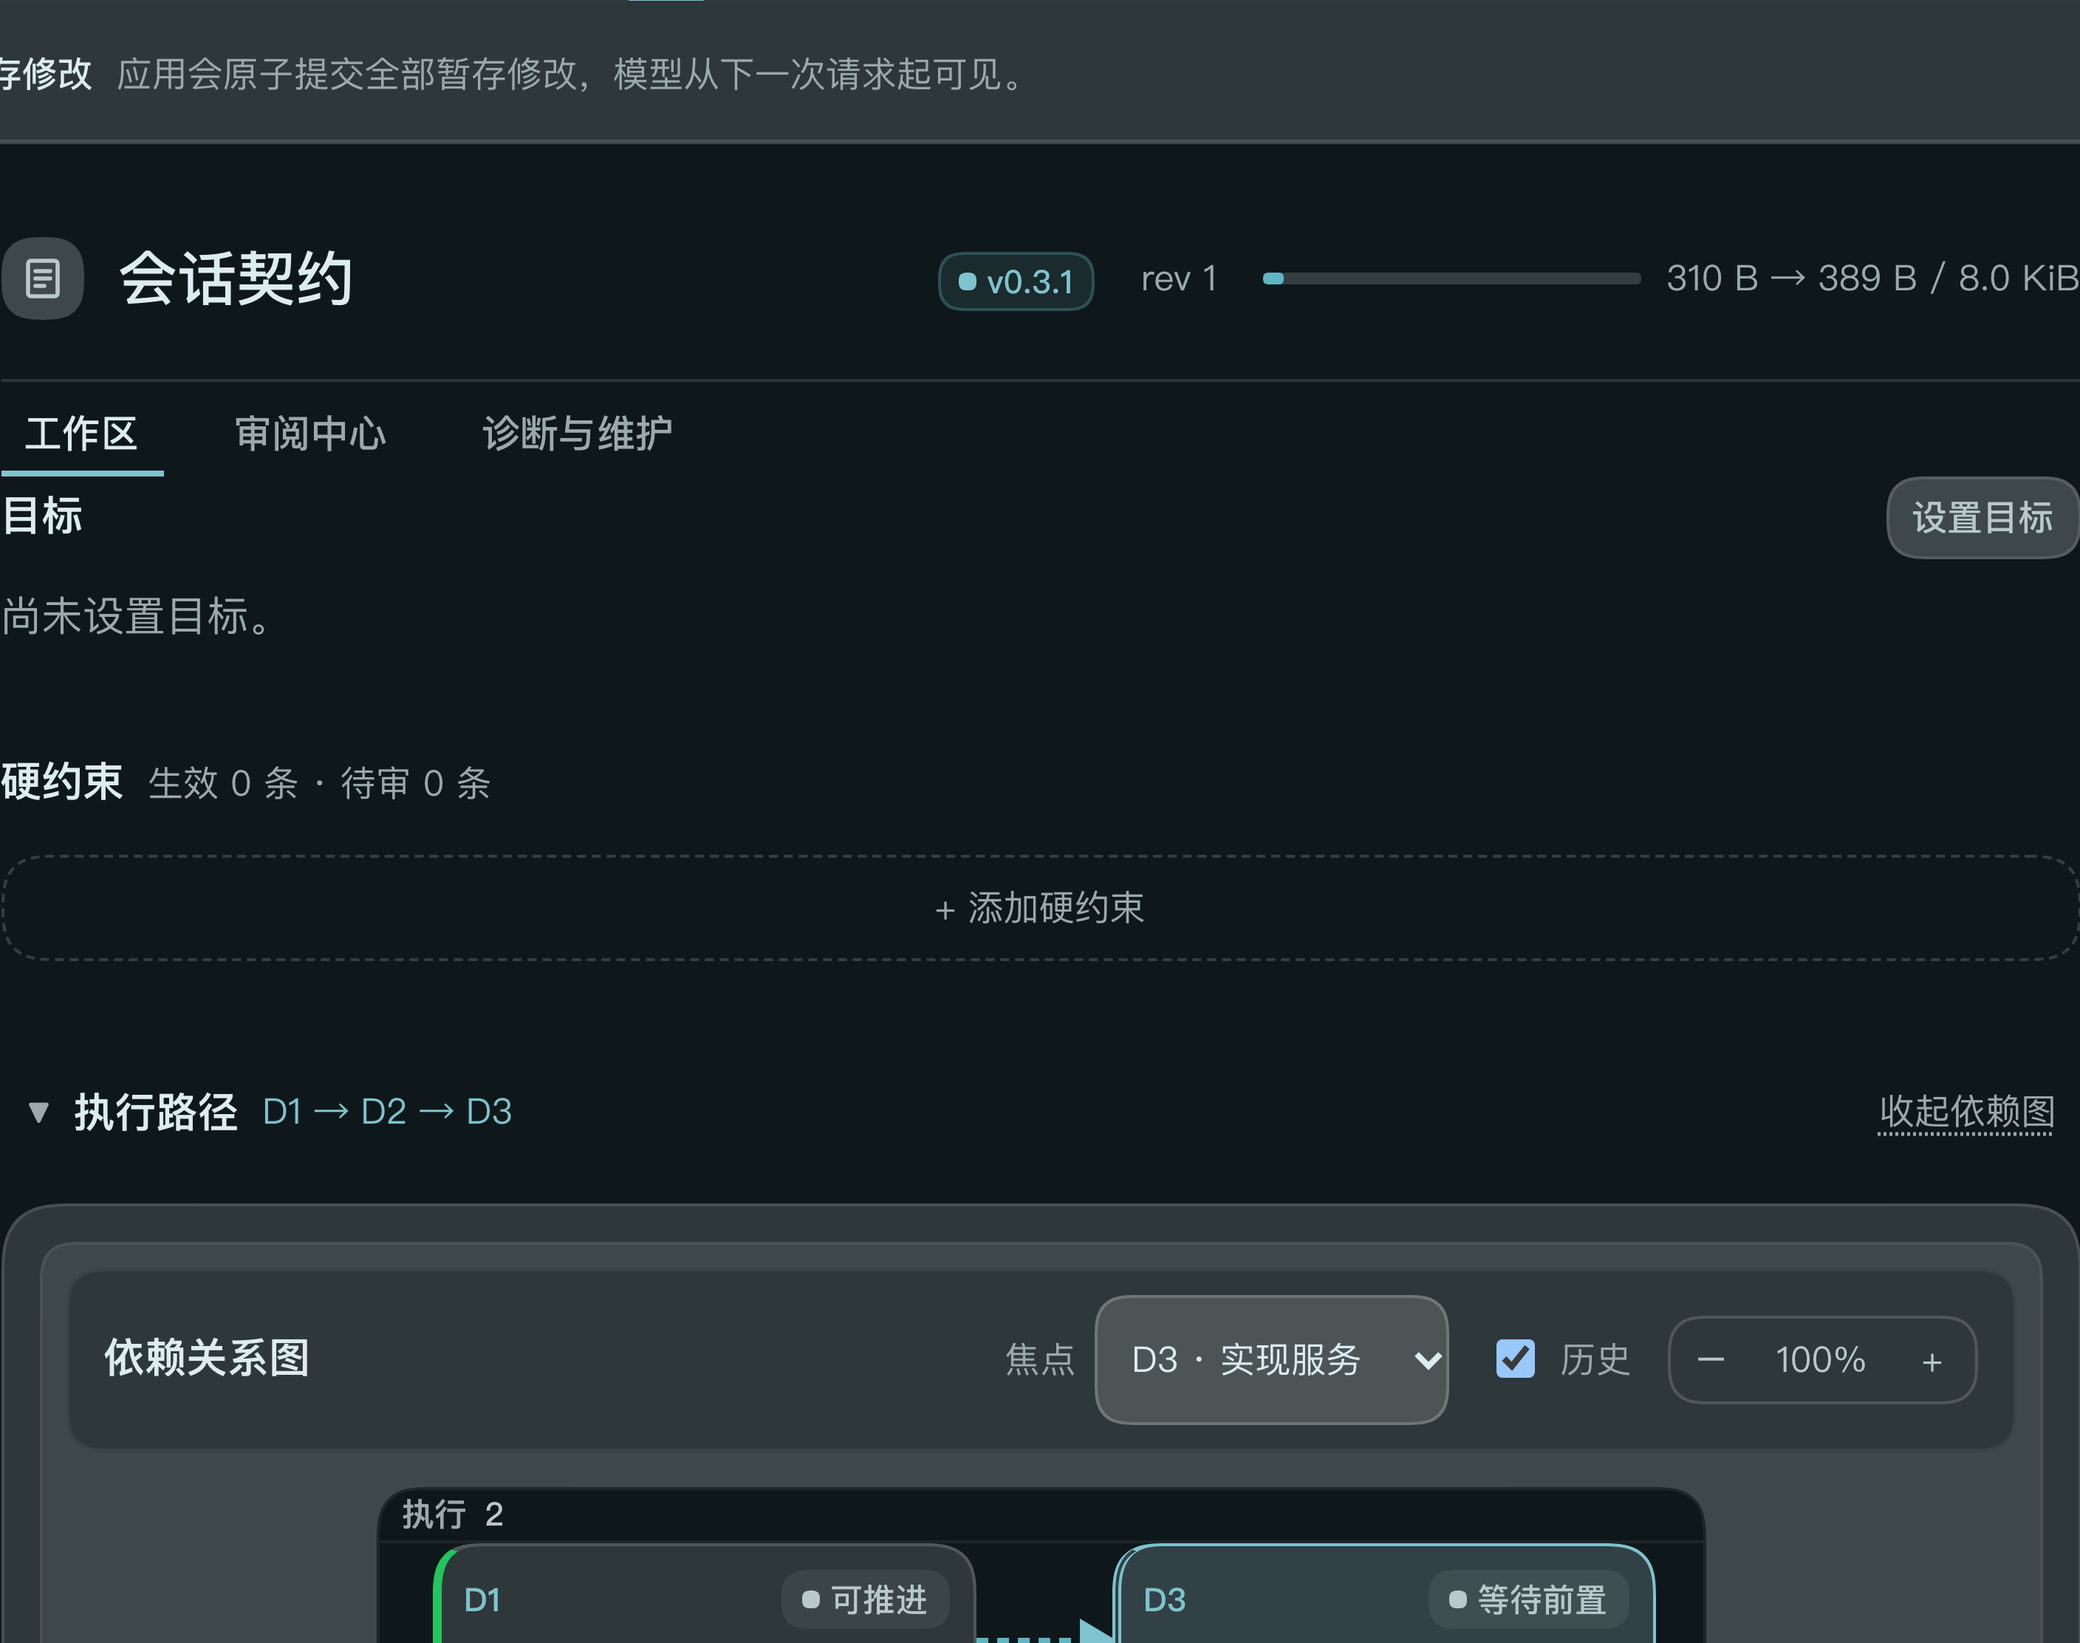
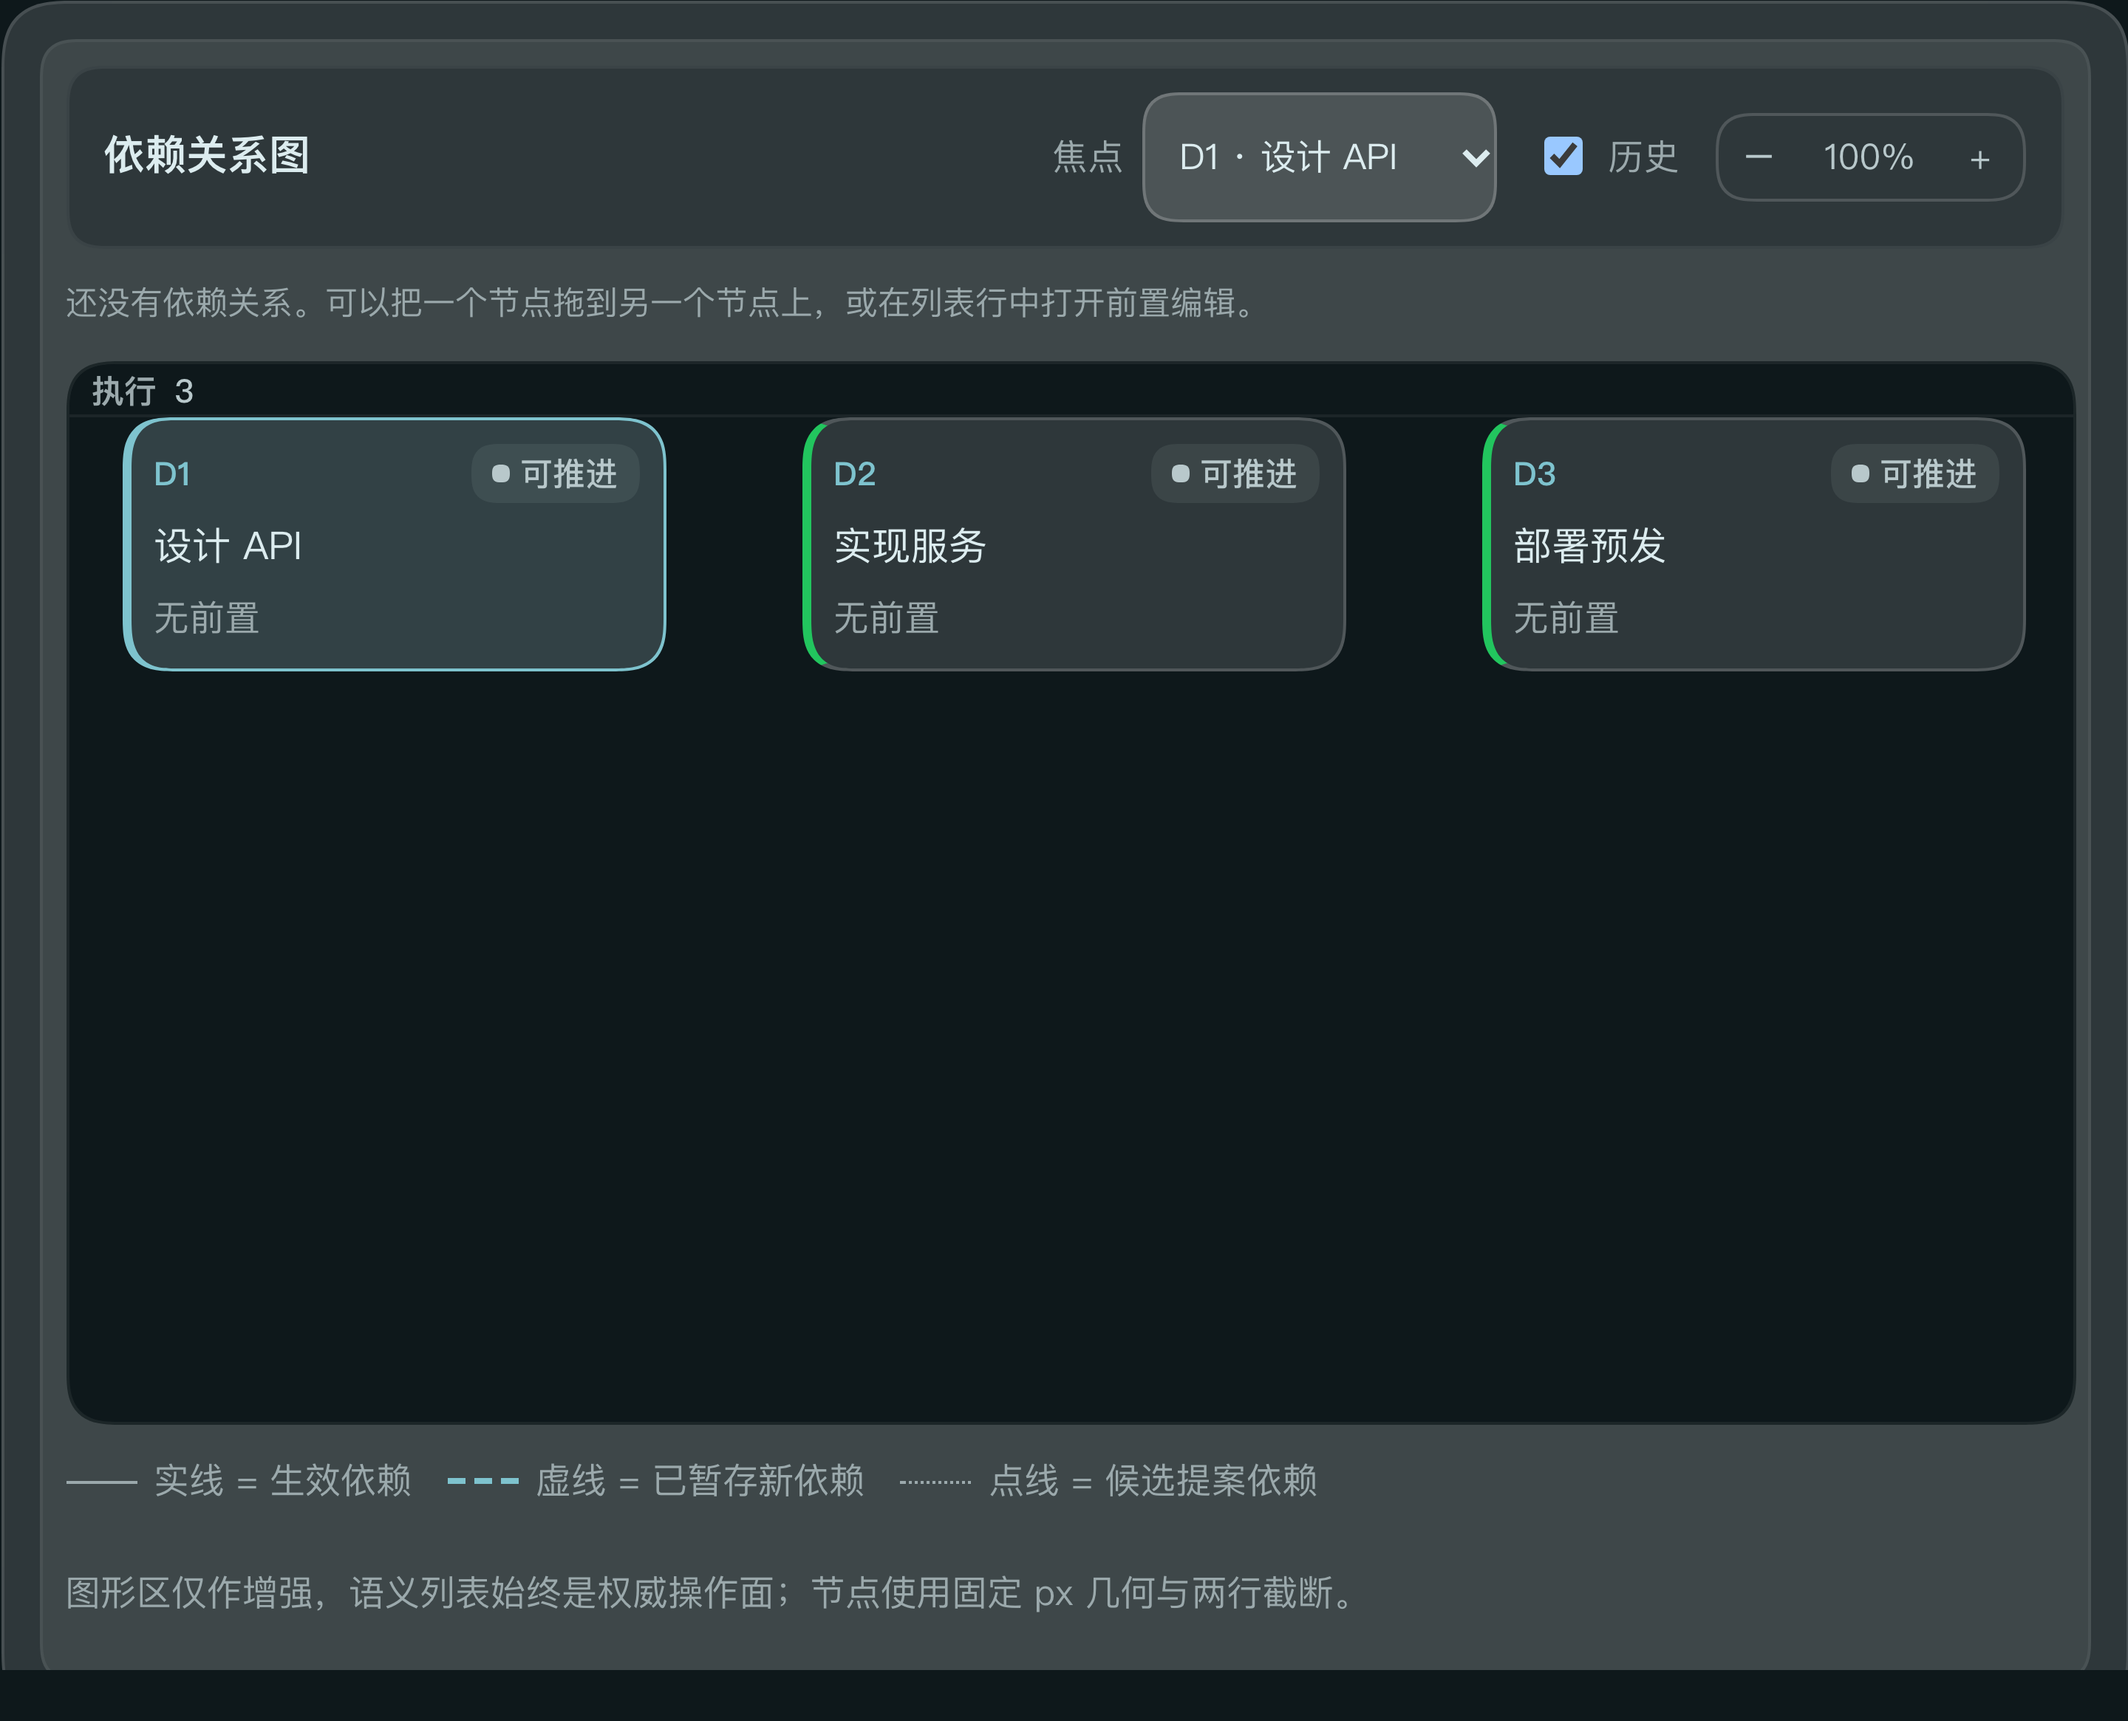
docs(readme): replace the inconsistent graph screenshot
Use a clean applied-session capture with all three deliverables D1/D2/D3 in separate grid cells instead of a focused D1+D3 subgraph with a mismatched staged row. Adjust the caption so edge arrows are described only when dependencies exist.

diff --git a/README.md b/README.md
@@ -21,8 +21,8 @@ deliverables, evidence, and dependency relationships survive compaction and rema
 
 ![Dependency graph in the 0.3.1 Pane](docs/assets/charter-graph-0.3.1.zh.png)
 
-> The execution-path dependency graph: lane headings, directional arrows, path-sized edge hit targets, and a
-> state/type legend. The semantic list remains the authoritative surface.
+> The execution-path dependency graph: lane headings, the three-column execution grid, and the state/type
+> legend. Edge arrows and hit targets appear when dependencies exist. The semantic list remains authoritative.
 
 ## Contents
 

diff --git a/README.zh.md b/README.zh.md
@@ -20,7 +20,7 @@
 
 ![0.3.1 Pane 中的依赖关系图](docs/assets/charter-graph-0.3.1.zh.png)
 
-> 执行路径中的依赖关系图：固定 px 节点、三层节点解剖、状态语言和静态边 legend；语义列表始终是权威操作面。
+> 执行路径依赖图：泳道标题、三列执行网格和状态/类型 legend；存在依赖时显示方向箭头与沿边命中区。语义列表始终是权威操作面。
 
 ## 目录
 
